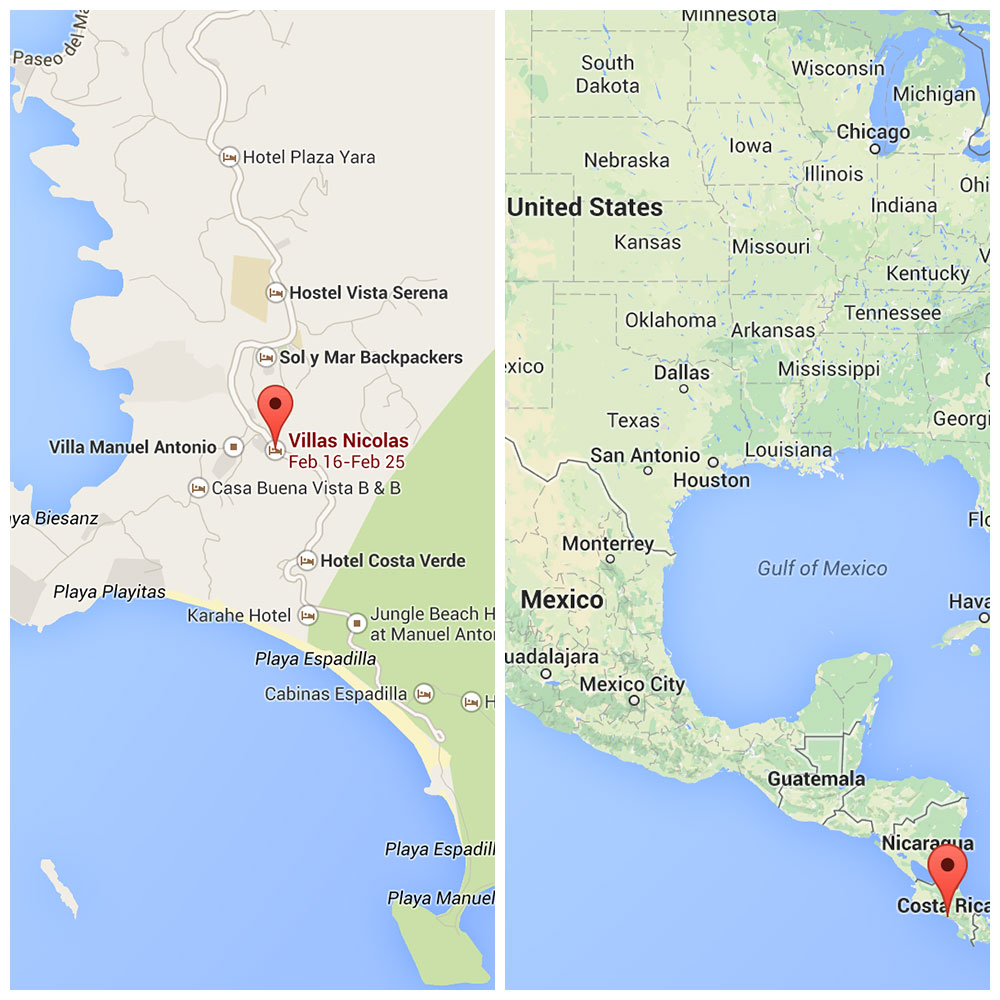
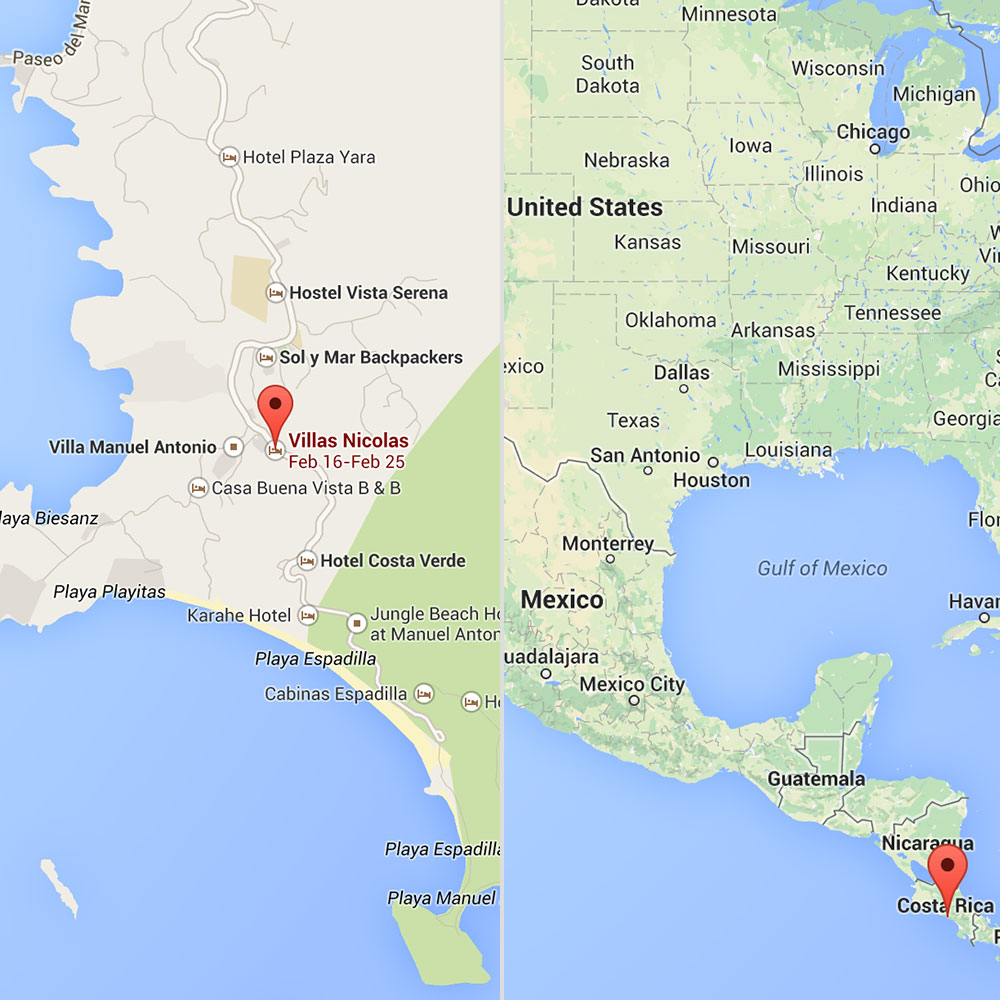
Update map image and caption

Changed region(s): [[0.0, 0.0, 1.0, 1.0]]

diff --git a/index.html b/index.html
@@ -26,9 +26,9 @@
 
     <img class='thing-we-did' src='images/costa-rica-map.jpg' />
     <figcaption>
-      Ben and Chris worked from Villas Nicolas in
-      <a href="http://goo.gl/d6UZRP">Manuel Antonio</a>,
-      Costa Rica for 7 days.
+      Ben and Chris worked from
+      <a href="http://goo.gl/xZqnkM">Villas Nicolas</a>
+      in Manuel Antonio.
     </figcaption>
 
     <img class='thing-we-did' src='photos/01.jpg' />
